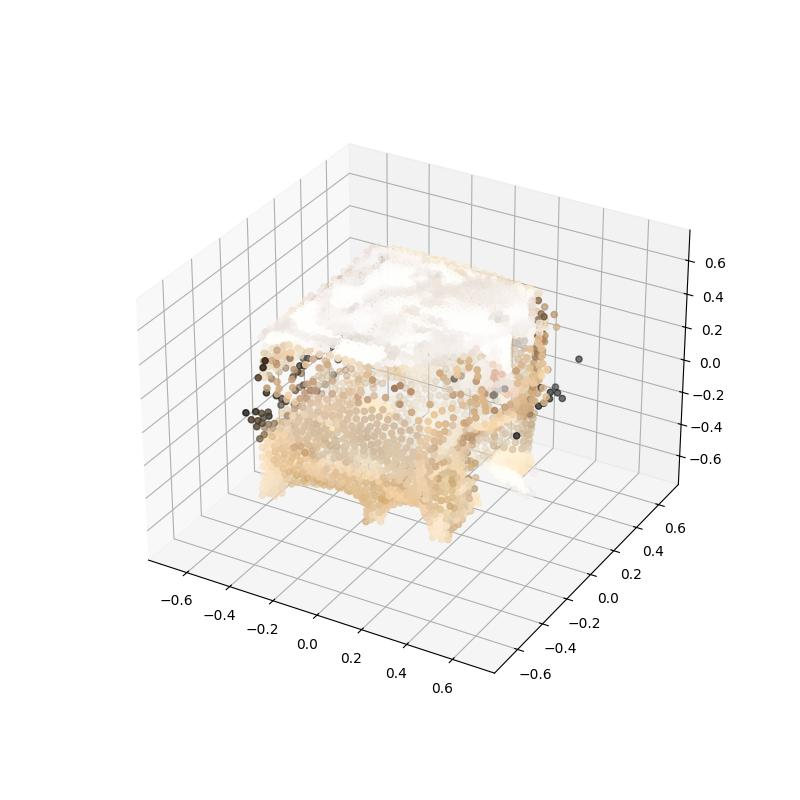
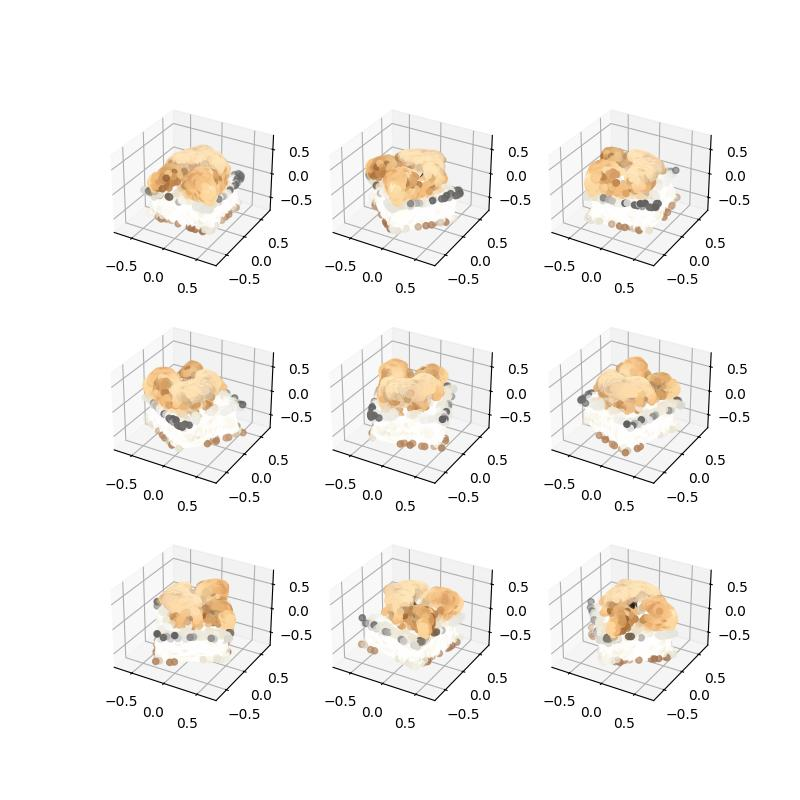
makefigure

diff --git a/makefigure.py b/makefigure.py
@@ -1,0 +1,37 @@
+# パッケージのインポート
+import sys,os
+sys.path.append(os.pardir) 
+from PIL import Image
+import torch
+from tqdm.auto import tqdm
+from point_e.diffusion.configs import DIFFUSION_CONFIGS, diffusion_from_config
+from point_e.diffusion.sampler import PointCloudSampler
+from point_e.models.download import load_checkpoint
+from point_e.models.configs import MODEL_CONFIGS, model_from_config
+from point_e.util.plotting import plot_point_cloud
+import matplotlib.pyplot as plt
+import ast
+import numpy
+from typing import Dict,Optional,Tuple
+from point_e.util.point_cloud import PointCloud
+#from point_e.util.point_cloud import PointCloud
+
+
+# 文字列からデータ構造に変換
+f = open('pointcloud_data.txt','r')
+data_str = f.read()
+data = ast.literal_eval(data_str)
+coords = np.array(data['coords'])
+
+# NumPy配列に変換
+channels = {'R': np.array(data['channels']['R']),
+            'G': np.array(data['channels']['G']),
+            'B': np.array(data['channels']['B'])}
+
+
+pc = PointCloud(coords=coords,channels=channels)
+f.close()
+fig = plot_point_cloud(pc, grid_size=3 , fixed_bounds=((-0.75, -0.75, -0.75),(0.75, 0.75, 0.75)))
+
+
+

diff --git a/sample.py b/sample.py
@@ -55,7 +55,9 @@ f1 =  open('pointcloud_data.txt','a')
 f1.write(str(pc))
 f1.close()
 
-fig = plot_point_cloud(pc, grid_size=1 , fixed_bounds=((-0.75, -0.75, -0.75),(0.75, 0.75, 0.75)))
+#ここの引数でgrid_sizeを決めている 3にすると3*3=9表示される
+#figはmatplotlibの型
+fig = plot_point_cloud(pc, grid_size=3 , fixed_bounds=((-0.75, -0.75, -0.75),(0.75, 0.75, 0.75)))
 print(type(fig))
 #f2 = open(('fig.txt','a')) 
 #f2.write(str(fig))

diff --git a/point_e/util/plotting.py b/point_e/util/plotting.py
@@ -9,7 +9,7 @@ from .point_cloud import PointCloud
 def plot_point_cloud(
     pc: PointCloud,#点群
     color: bool = True,
-    grid_size: int = 1, 
+    grid_size: int = 1, #ここで表示する数を調整?
     fixed_bounds: Optional[Tuple[Tuple[float, float, float], Tuple[float, float, float]]] = ( #範囲の指定？
         (-0.75, -0.75, -0.75),
         (0.75, 0.75, 0.75),
